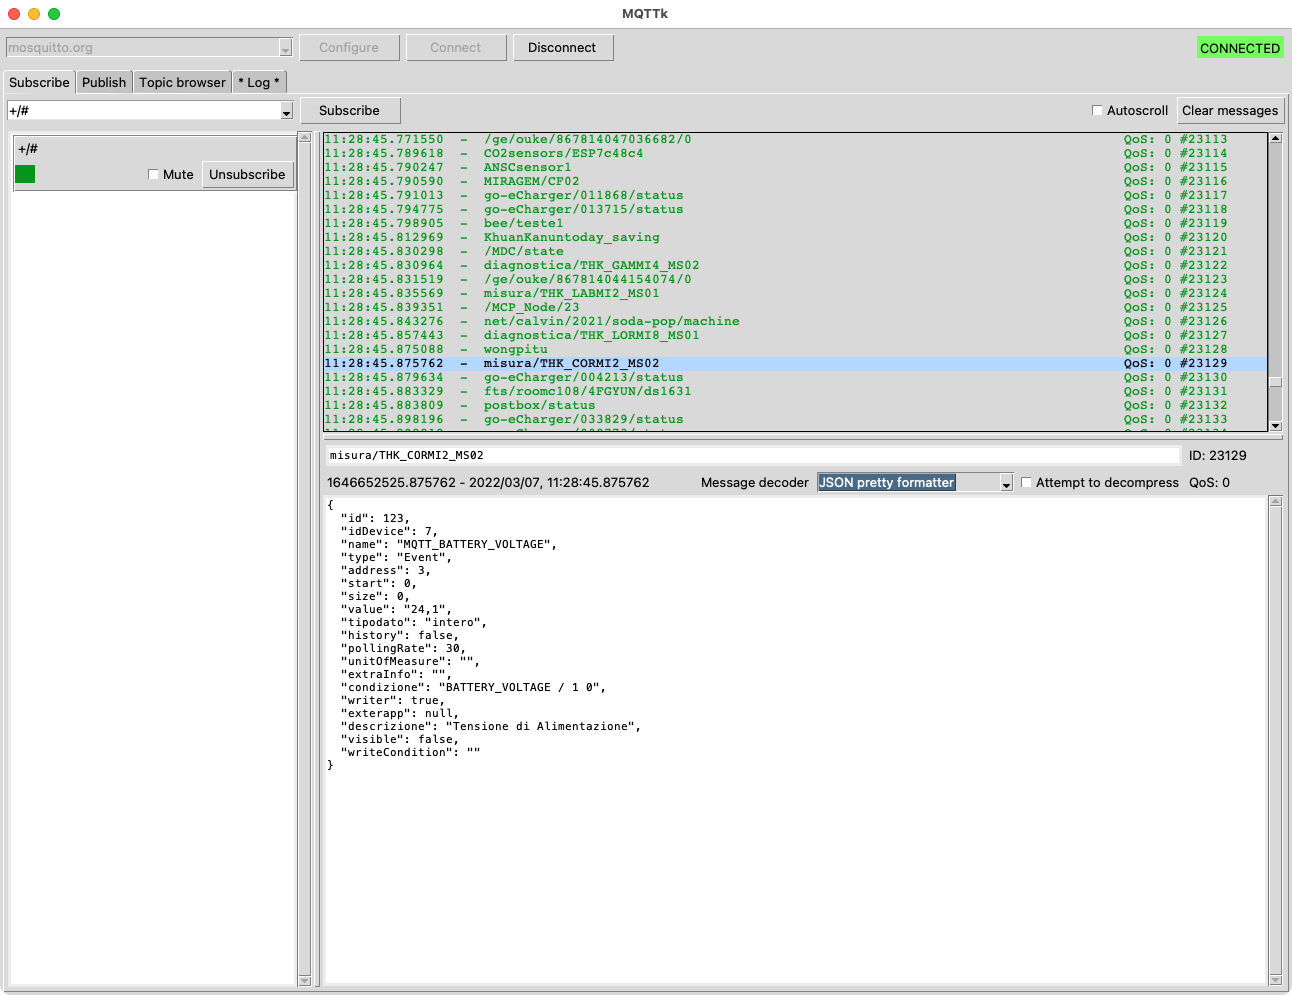
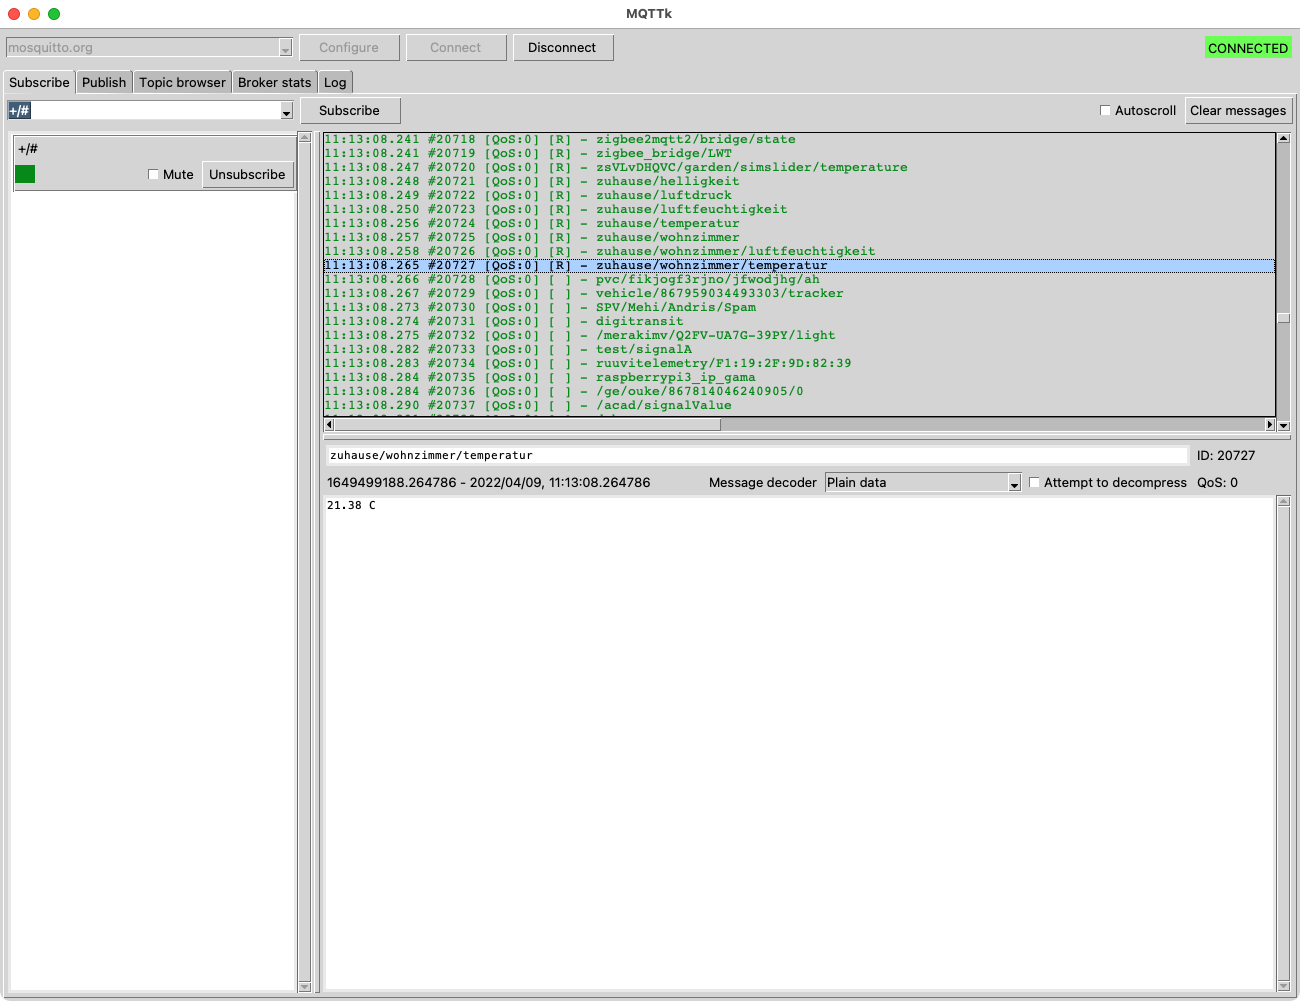
Update readme

diff --git a/README.md b/README.md
@@ -6,6 +6,7 @@
   * [Subscribe interface](#subscribe-interface)
   * [Publish interface](#publish-interface)
   * [Topic browser](#topic-browser)
+  * [Broker stats](#broker-stats)
   * [Log tab](#log-tab)
   * [Import MQTT.fx configuration](#import-mqttfx-configuration)
 - [Planned features](#planned-features)
@@ -135,6 +136,13 @@ will make it into the topic browser.
 Topic browser
 
 ![Topic browser](/assets/topic_browser.png)
+
+## Broker stats
+This allows the statistics of the broker connected to, to be viewed in a similar fashion as the topic browser. 
+
+Broker stats
+
+![Broker stats](/assets/broker_stats.png)
 
 ## Log tab
 The log may contain useful information in case something isn't working with the app as expected. The log is also output
